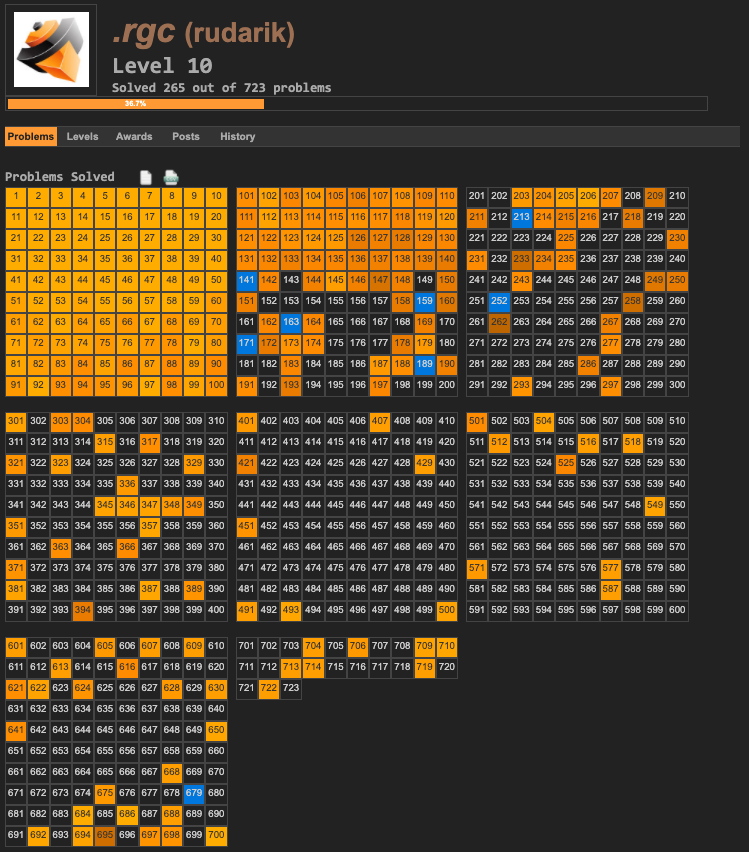
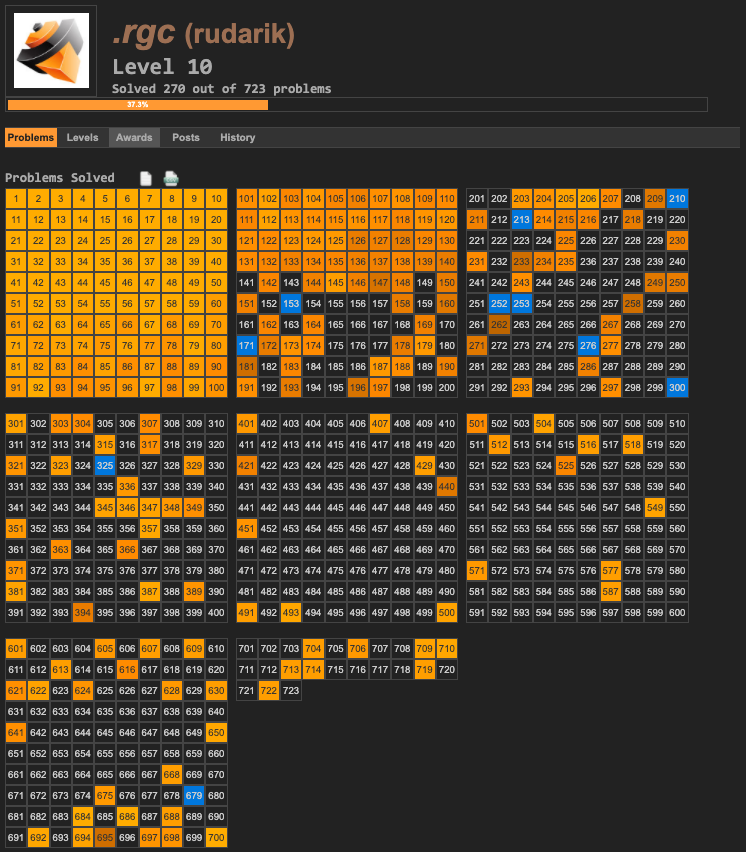
Solved 307 and 440

Changed region(s): [[0.0, 0.0, 0.9558, 1.0]]

diff --git a/README.md b/README.md
@@ -67,7 +67,7 @@ Problem 178: "Step Numbers", Problem 191: "Prize Strings", Problem 249: "Prime S
 Problem 138: "Special isosceles triangles", Problem 139: "Pythagorean tiles", Problem 142: "Perfect Square Collection", Problem 218: "Perfect right-angled triangles"
 
 * [Recurrence Relation](https://en.wikipedia.org/wiki/Recurrence_relation)
-Problem 258: "A lagged Fibonacci sequence", Problem 710: "One Million Members"
+Problem 258: "A lagged Fibonacci sequence", Problem 710: "One Million Members", Problem 440: "GCD and Tiling"
 
 * [Nim](https://en.wikipedia.org/wiki/Nim)
 Problem 301: "Nim"
@@ -130,7 +130,7 @@ Problem 394: "Eating pie"
 Problem 345: "Matrix sum"
 
 * [Chinese Remainder Theorem](https://en.wikipedia.org/wiki/Chinese_remainder_theorem)
-Problem 134: "Prime pair connection", Problem 451: "Modular inverses"
+Problem 134: "Prime pair connection", Problem 271: "Modular Cubes, part 1", Problem 451: "Modular inverses"
 
 * [Lambert Series](https://en.wikipedia.org/wiki/Lambert_series)
 Problem 722: "Slowly converging series"
@@ -162,6 +162,9 @@ Problem 183: "Maximum product of parts"
 
 * [Pell's Equation](https://en.wikipedia.org/wiki/Pell%27s_equation)
 Problem 321: "Swapping Counters"
+
+* [Sieve of Eratosthenes](https://en.wikipedia.org/wiki/Sieve_of_Eratosthenes)
+Problem 196: "Prime triplets"
 
 * [Mobius Function](https://en.wikipedia.org/wiki/M%C3%B6bius_function)
 Problem 193: "Squarefree Numbers"
